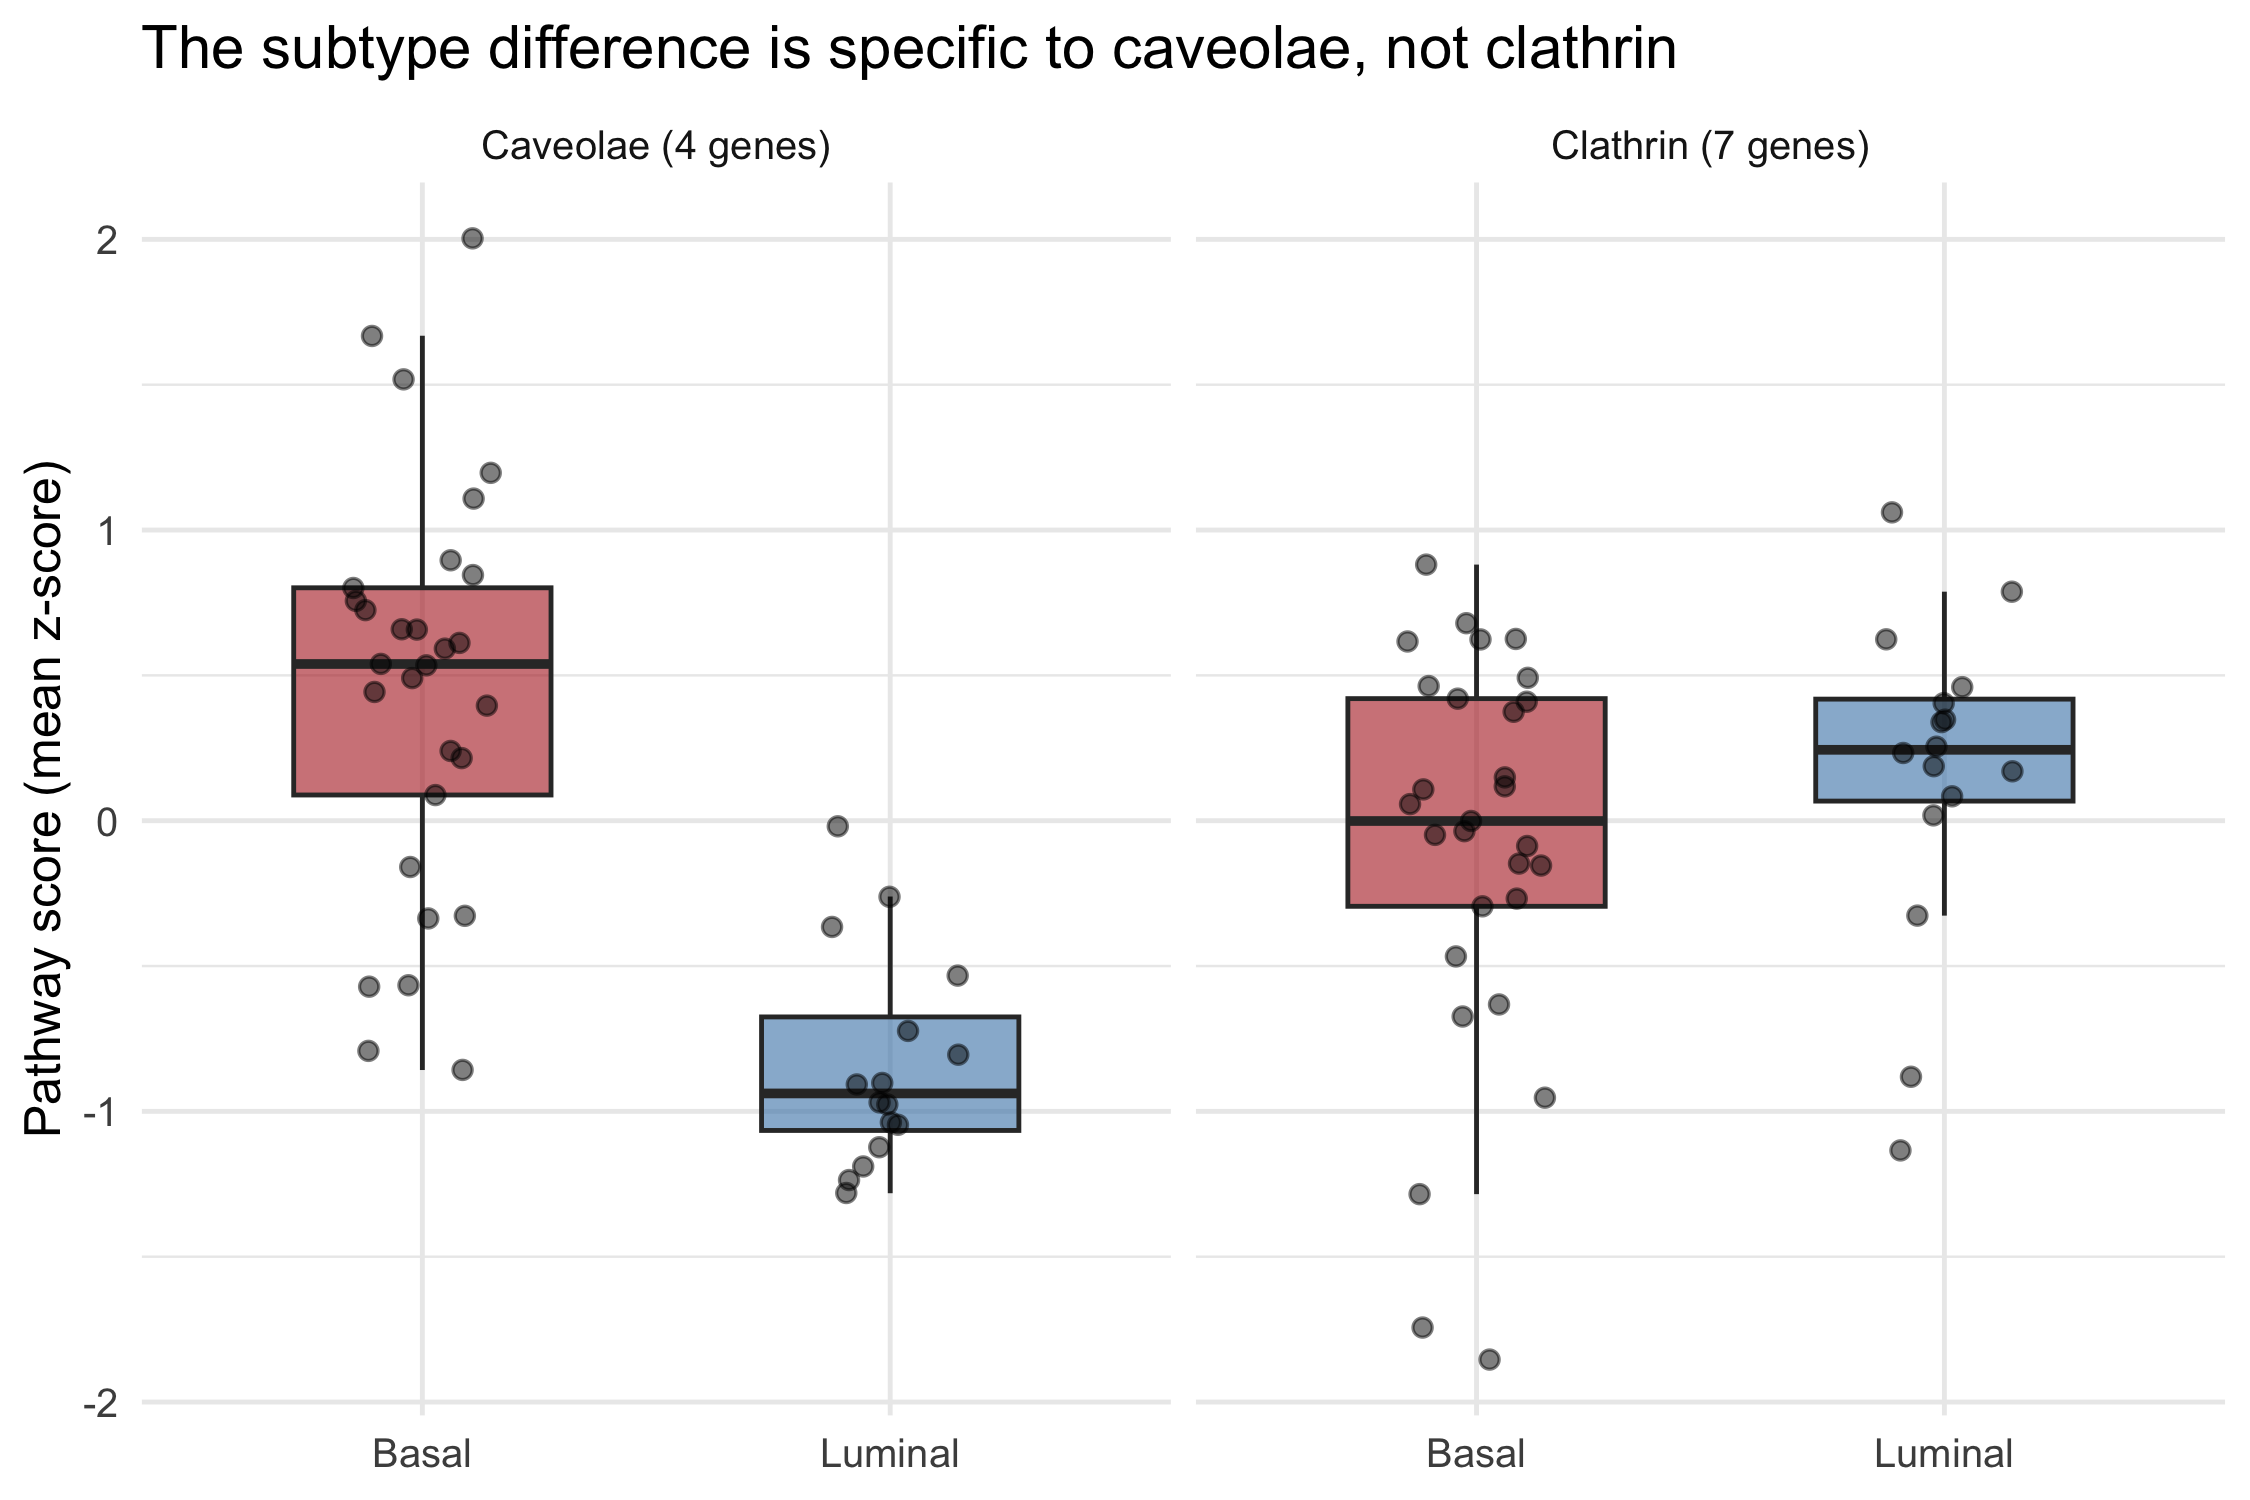
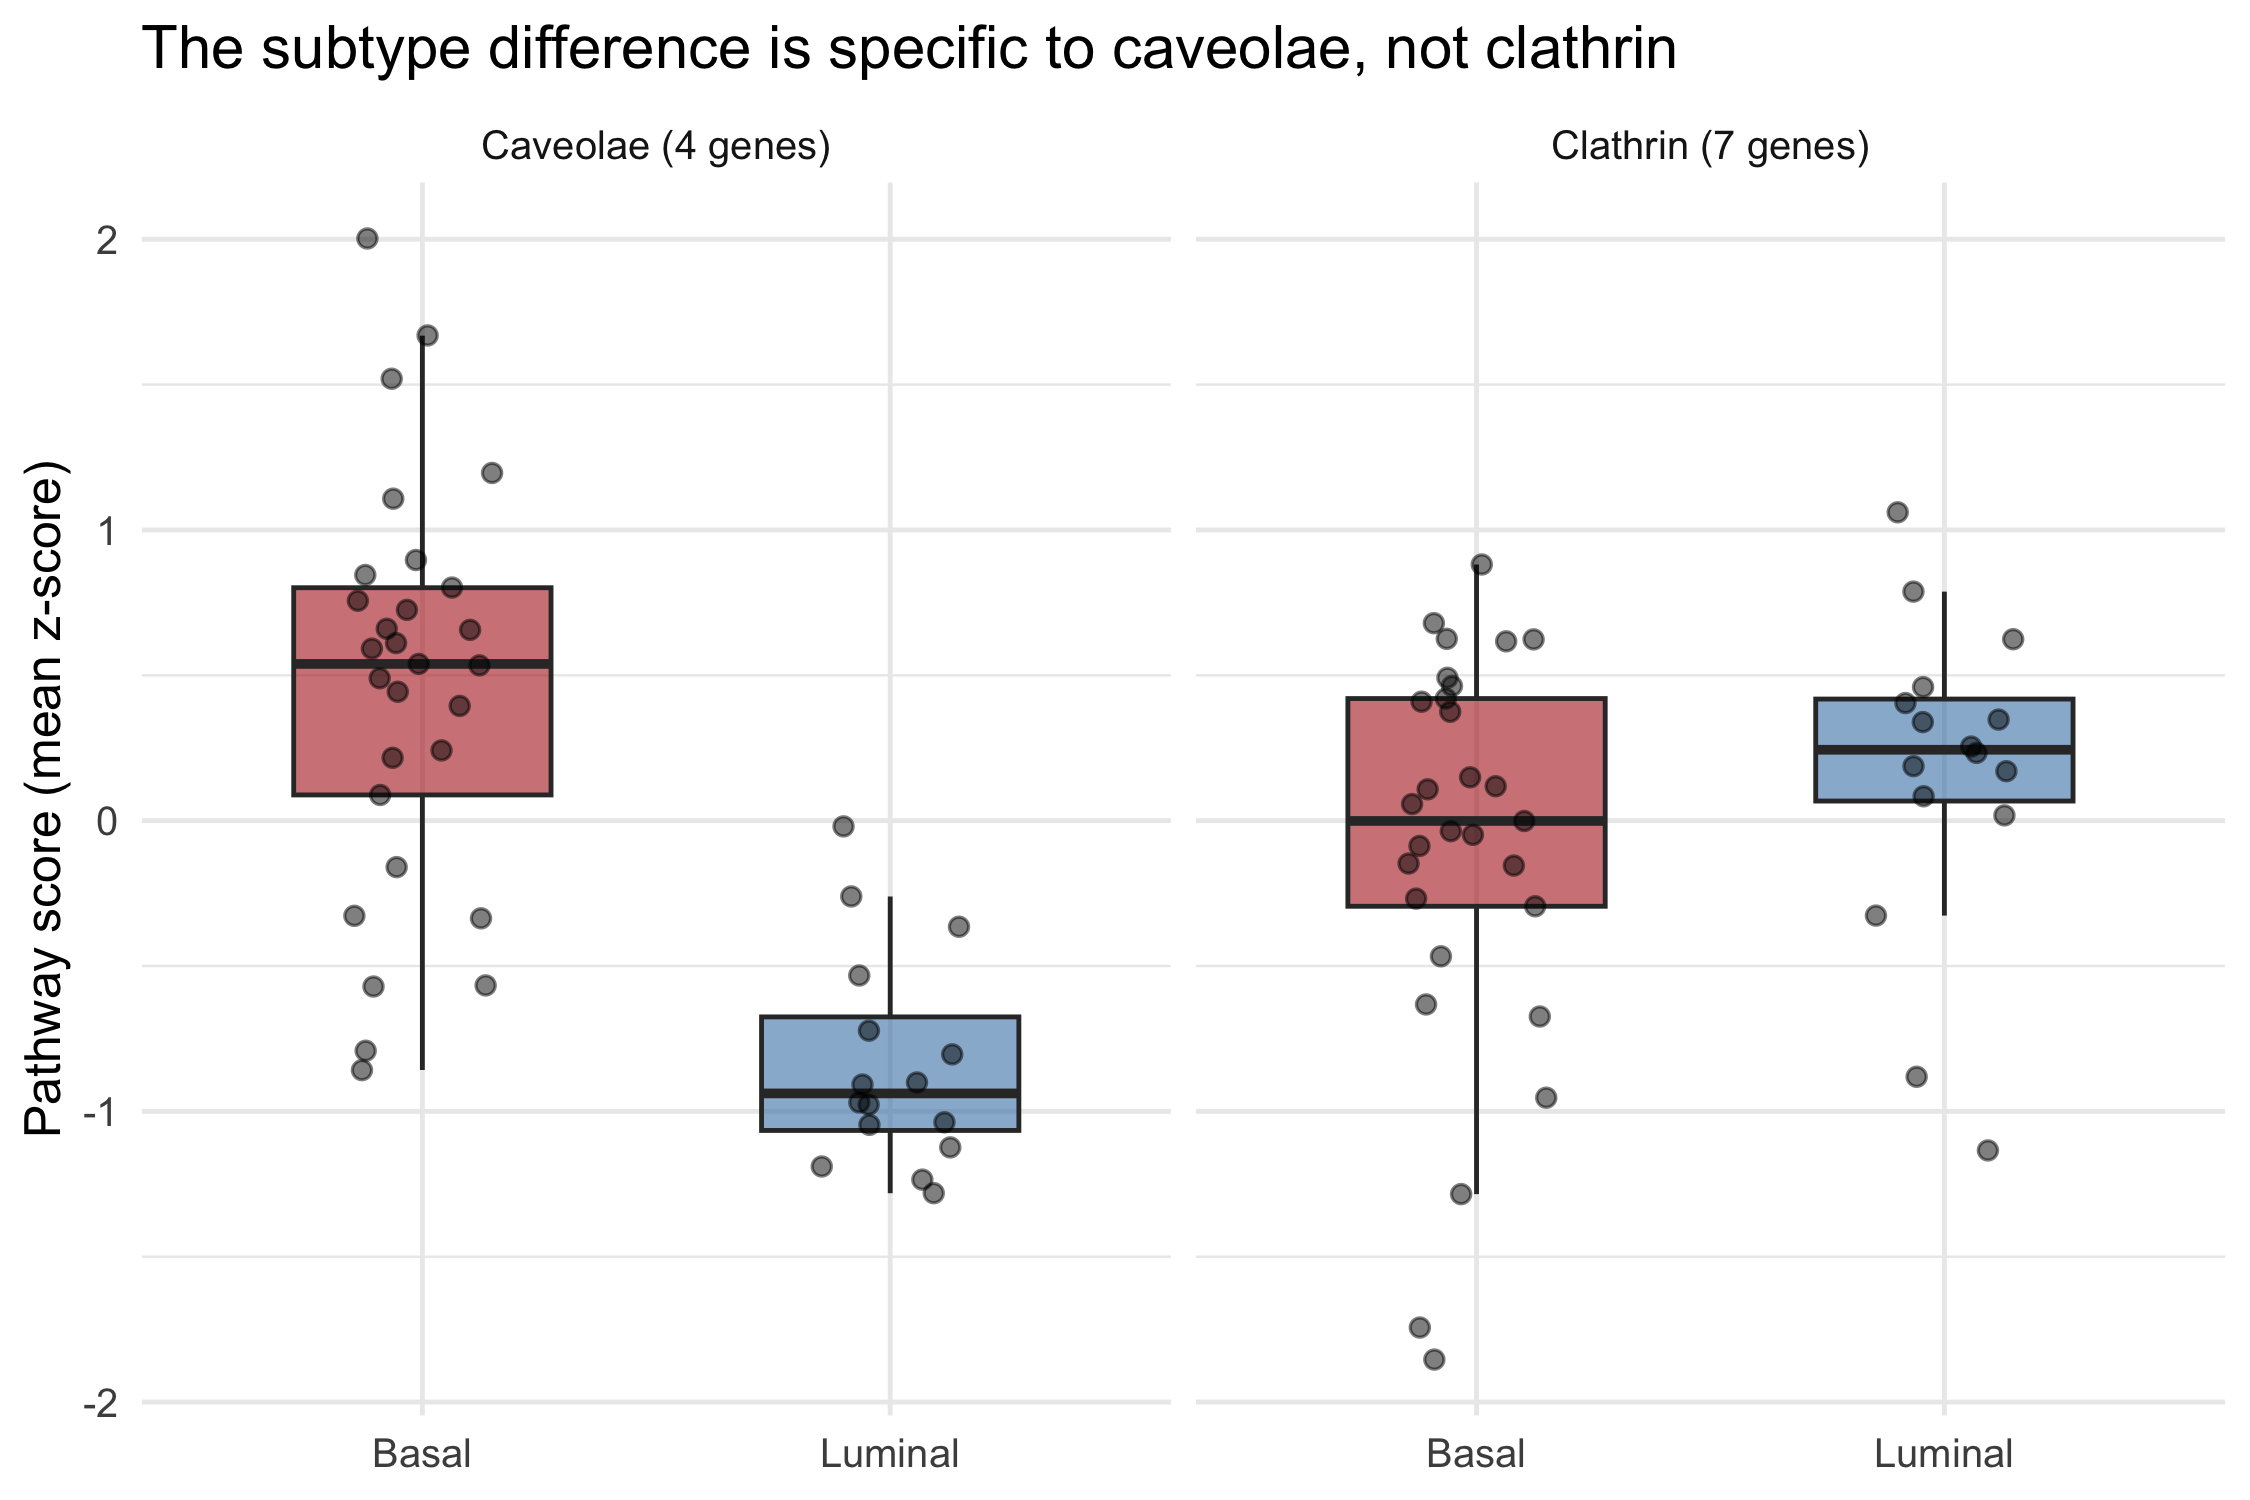
Add README; exclude SUM102PT on quality grounds

diff --git a/README.md b/README.md
@@ -1,0 +1,123 @@
+
+# Subtype-specific endocytosis gene expression in breast cancer cell lines
+
+A computational follow-up to an undergraduate dissertation on DOTAP lipid
+nanoparticle cytotoxicity in MCF-7 and MDA-MB-231.
+
+## Question
+
+Do basal-like and luminal breast cancer cell lines differ systematically in
+expression of genes governing endocytic uptake and membrane composition?
+
+## Background
+
+An undergraduate dissertation measured lipid nanoparticle cytotoxicity in two
+breast cancer cell lines. MDA-MB-231 (basal-like) was consistently more
+sensitive than MCF-7 (luminal). Because the two lines were cultured under
+different conditions, a biological explanation could not be separated from an
+experimental one.
+
+This project does not attempt to resolve that confound. It asks a separate
+question: whether a molecular basis for a subtype-linked difference in
+endocytic capacity exists at all, in data where culture conditions are not the
+variable under test.
+
+## Data
+
+DepMap Public release [RECORD VERSION HERE], from depmap.org
+
+- `Model.csv` — cell line annotation
+- `OmicsExpressionTPMLogp1HumanProteinCodingGenes.csv` — RNA-seq, log2(TPM+1)
+
+Raw data is not included in this repository (the expression file exceeds the
+GitHub file size limit). Download both files from the DepMap portal and place
+them in `data/raw/`.
+
+## Analysis set
+
+| Stage | n |
+|---|---|
+| Breast lines in DepMap | 96 |
+| With a confident Basal or Luminal call | 56 |
+| With expression data | 71 |
+| Final analysis set | 45 |
+
+29 Basal, 16 Luminal. Both MCF-7 (ACH-000019) and MDA-MB-231 (ACH-000768) are
+included.
+
+Subtype assignment was manual. DepMap annotations are inconsistent, mixing
+receptor status with molecular subtype, so lines were assigned by explicit
+rules recorded in `scripts/02_subtype_curation.R`. HER2-enriched lines were
+excluded as a third subtype. Three luminal androgen receptor lines were
+excluded because they sit between the comparison groups by definition. One
+line (SUM102PT) was excluded on quality grounds after a transcriptome-wide low
+expression profile was identified from the heatmap.
+
+## Gene set
+
+25 genes, curated from the lipid nanoparticle uptake literature and frozen
+before any differential expression was run: clathrin machinery, dynamin
+scission, caveolae, macropinocytosis, lipid synthesis, membrane remodeling.
+See `data/geneset.csv`.
+
+## Method
+
+limma linear models with empirical Bayes moderation. DepMap expression arrives
+as log2(TPM+1), already normalized, so count-based methods such as DESeq2 are
+not appropriate. Benjamini-Hochberg correction was applied across the 25 genes
+only, since the gene set was pre-specified.
+
+## Result
+
+The subtype difference is specific to caveolae-mediated uptake, not
+endocytosis in general.
+
+| Gene | log2FC | adj. p | Higher in |
+|---|---|---|---|
+| CAV1 | -4.92 | 1.9e-07 | Basal |
+| CAV2 | -4.34 | 2.2e-08 | Basal |
+| CAVIN1 | -4.06 | 2.2e-08 | Basal |
+| ABCG1 | 2.80 | 6.8e-10 | Luminal |
+
+Negative log2FC indicates higher expression in Basal lines.
+
+All four caveolae genes separate strongly. No clathrin gene reaches
+significance. Pathway scores: caveolae 0.46 in Basal against -0.84 in Luminal;
+clathrin -0.12 against 0.22.
+
+MDA-MB-231 scores 1.68 on the caveolae score, above the basal group mean.
+MCF-7 scores -0.99, below the luminal group mean. Both lines sit where the
+subtype pattern predicts.
+
+## Limitations
+
+1. Transcript abundance is not protein abundance and is not uptake rate. This
+   is the largest inferential gap in the project.
+2. No lipid nanoparticle screening data exists across these cell lines, so the
+   link to the dissertation observation remains indirect.
+3. Cell lines are not tumours.
+4. The basal and luminal binary is coarse. Basal A and Basal B lines were not
+   separated.
+5. 16 luminal lines is modest power. Effect sizes matter more than p-values.
+6. The dissertation confound is not resolved by this work.
+
+## Reproducing
+
+Download the DepMap files into `data/raw/`, then run in order:
+
+```r
+source("scripts/01_filter_breast.R")
+source("scripts/02_subtype_curation.R")
+source("scripts/03_geneset.R")
+source("scripts/04_expression_prep.R")
+source("scripts/05_differential_expression.R")
+source("scripts/06_figures.R")
+source("scripts/07_more_figures.R")
+```
+
+Requires R with dplyr, ggplot2, tidyr and limma (Bioconductor).
+
+Scripts contain `stopifnot` checks on sample counts and effect direction, so a
+change in the underlying data will fail loudly rather than silently alter the
+result.
+
